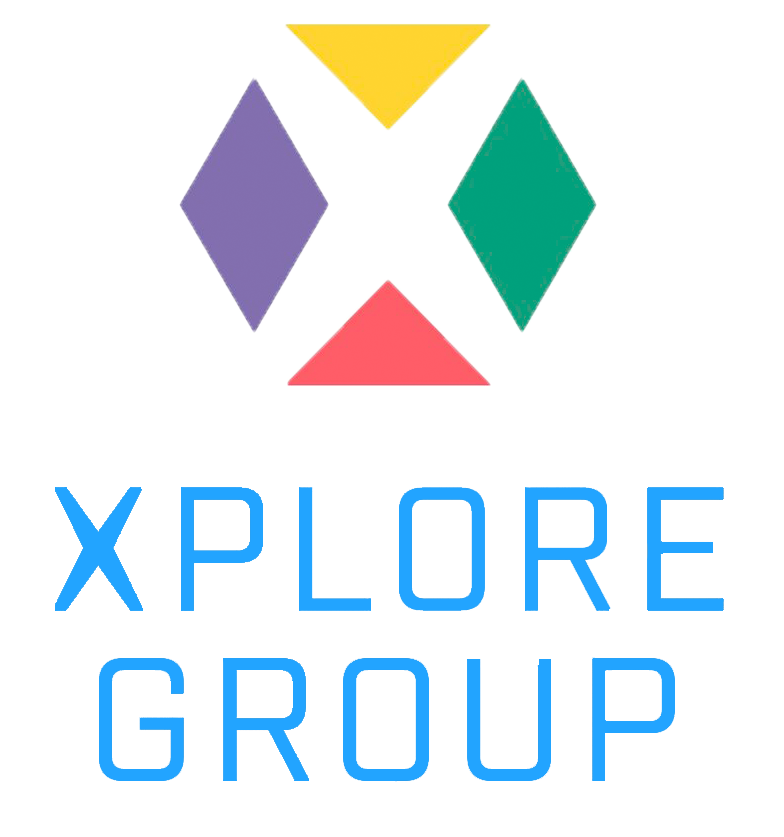
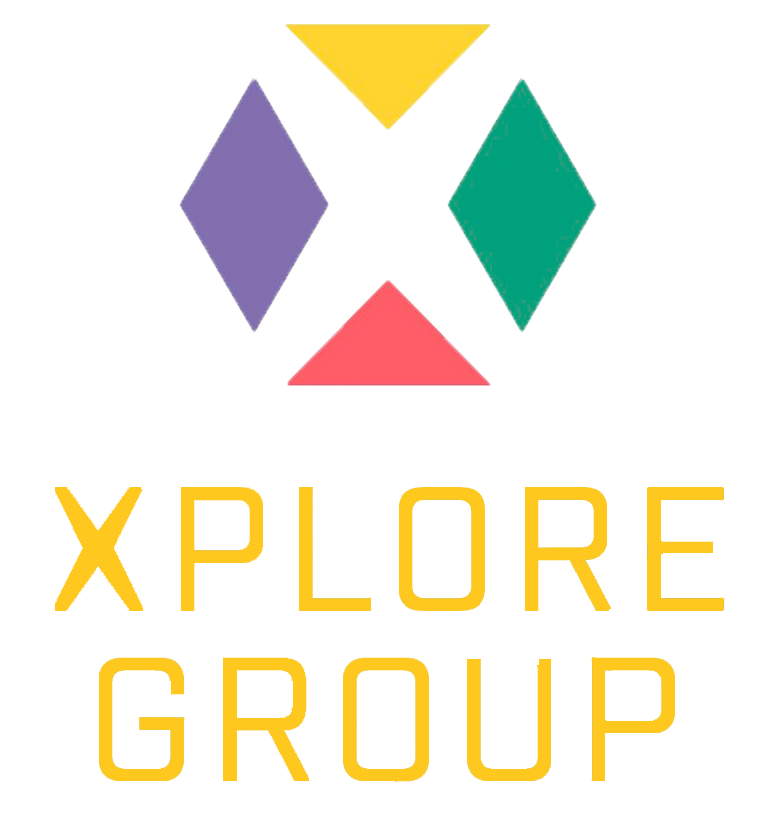
changed background and colors

diff --git a/src/seats/components/HomePage.tsx b/src/seats/components/HomePage.tsx
@@ -3,9 +3,9 @@ import ActionMenu from './ActionMenu'
 import CardSeat from './CardSeat';
 import {Seat} from '../types/Seat';
 import BuildingFloorPlan from '../../svg/components/BuildingFloorPlan';
-import {DeviceEventEmitter, View, ScrollView, Dimensions} from 'react-native';
+import {DeviceEventEmitter, View, ScrollView, ImageBackground} from 'react-native';
 import DatePicker from "../../dateTimePicker/components/DatePicker";
-import {Button, Portal, ToggleButton} from "react-native-paper";
+import {Button, Portal, ToggleButton, Text} from "react-native-paper";
 import ReserveSeatDialog from './ReserveSeatDialog';
 import useGetSeatStatus from '../hooks/useGetSeatStatus';
 import useBuilding from '../hooks/useBuilding';
@@ -46,9 +46,9 @@ export default function HomePage() {
                 <ToggleButton status={!showSeatsList ? 'unchecked' : 'checked'}
                               style={{
                                   marginRight: 2, marginLeft: 5,
-                                  backgroundColor: showSeatsList ? theme.colors.accent : '#fff'
+                                  backgroundColor: showSeatsList ? theme.colors.primary : '#fff'
                               }}
-                              color={showSeatsList ? '#fff' : theme.colors.accent}
+                              color={showSeatsList ? '#fff' : theme.colors.primary}
                               icon={'format-list-text'} onPress={onToggleSwitch}
 
                 />
@@ -94,11 +94,16 @@ export default function HomePage() {
     }, [loading])
 
     return (
+
         <View style={{
             flexShrink: 1,
-            height: Dimensions.get("window").height,
-            width: Dimensions.get("window").width
+            height: '100%',
+            width: '100%'
         }}>
+            <ImageBackground resizeMode='cover' style={{
+                flex: 1,
+                justifyContent: "center"
+            }} source={require('../../../assets/cronosLogin.png')}>
             <ActionMenu/>
             {clickedSeat !== undefined &&
                 <Portal>
@@ -114,12 +119,14 @@ export default function HomePage() {
                 display: 'flex',
                 flexDirection: 'row',
                 alignItems: 'center',
-                marginBottom: 5,
-                justifyContent: 'space-between'
+                margin: 5,
+                justifyContent: 'space-evenly',
+                backgroundColor: theme.colors.primary
             }}>
                 <DatePicker updateState={setDate} date={date}/>
+                <Text style={{color: theme.colors.accent}}>|</Text>
                 <Button onPress={() => setFilterVisible(true)}
-                        style={{width: '40%',}} icon='filter'>filter</Button>
+                        color={theme.colors.accent} icon='tune'>filter</Button>
             </View>
             {showSeatsList ?
                 <ScrollView>
@@ -138,6 +145,7 @@ export default function HomePage() {
                                        floorPoints={selectedBuilding.floorPoints}/>
                 </ReactNativeZoomableView>
             }
+            </ImageBackground>
         </View>
     )
 }

diff --git a/App.tsx b/App.tsx
@@ -1,17 +1,17 @@
 import React, {useEffect} from 'react';
 import HomePage from './src/seats/components/HomePage';
-import { Provider } from 'react-native-paper'
-import { ToastContainer } from '@jamsch/react-native-toastify';
-import { createNativeStackNavigator } from '@react-navigation/native-stack';
-import { NavigationContainer } from '@react-navigation/native';
+import {Provider} from 'react-native-paper'
+import {ToastContainer} from '@jamsch/react-native-toastify';
+import {createNativeStackNavigator} from '@react-navigation/native-stack';
+import {NavigationContainer} from '@react-navigation/native';
 import {
     nl,
     registerTranslation,
 } from 'react-native-paper-dates'
 import "intl";
 import 'intl/locale-data/jsonp/nl'
-import { Platform } from "react-native";
-import { LoginContainer } from './src/login/components/LoginContainer';
+import {Platform} from "react-native";
+import {LoginContainer} from './src/login/components/LoginContainer';
 import CheckIn from './src/seats/components/CheckIn';
 import MyReservations from './src/reservations/components/MyReservations';
 import {theme} from "./theme";
@@ -41,14 +41,14 @@ export default function App() {
     return (
         <Provider theme={theme}>
             <LoginContainer>
-                <NavigationContainer>
-                    <ToastContainer />
-                    <Stack.Navigator initialRouteName='Home'>
-                        <Stack.Screen name='Home' component={HomePage} />
-                        <Stack.Screen name='CheckIn' component={CheckIn} />
-                        <Stack.Screen name='MyReservations' component={MyReservations} />
-                    </Stack.Navigator>
-                </NavigationContainer>
+                    <NavigationContainer>
+                        <ToastContainer/>
+                        <Stack.Navigator initialRouteName='Home'>
+                            <Stack.Screen name='Home' component={HomePage}/>
+                            <Stack.Screen name='CheckIn' component={CheckIn}/>
+                            <Stack.Screen name='MyReservations' component={MyReservations}/>
+                        </Stack.Navigator>
+                    </NavigationContainer>
             </LoginContainer>
         </Provider>
     );

diff --git a/src/seats/components/CheckIn.tsx b/src/seats/components/CheckIn.tsx
@@ -1,5 +1,5 @@
 import React, {useEffect, useState} from 'react'
-import {View, StyleSheet} from 'react-native';
+import {View, StyleSheet, ImageBackground} from 'react-native';
 import {BarCodeScanner, BarCodeScannerResult} from 'expo-barcode-scanner';
 import {Button, Text} from 'react-native-paper';
 import useSeat from '../../shared/hooks/useSeat';
@@ -32,16 +32,21 @@ export default function CheckIn() {
     }
 
     return (
-        <View testID={'CheckInView'} style={{height: '100%', display: 'flex', flexDirection: 'column'}}>
-            <BarCodeScanner testID={'BarCodeScanner'}
-                            onBarCodeScanned={scanned ? undefined : handleBarCodeScanned}
-                            style={StyleSheet.absoluteFillObject}
-            />
-            {scanned &&
-                <Button mode='contained' onPress={() => setScanned(false)}>Tap to Scan Again</Button>}
-            <Text style={{textAlign: 'center', fontSize: 20, fontWeight: 'bold', marginTop: 5}}>
-                Scan the QR code on the desk you reserved to check in.
-            </Text>
-        </View>
+        <ImageBackground resizeMode='cover' style={{
+            flex: 1,
+            justifyContent: "center"
+        }} source={require('../../../assets/background.png')}>
+            <View testID={'CheckInView'} style={{height: '100%', display: 'flex', flexDirection: 'column'}}>
+                <BarCodeScanner testID={'BarCodeScanner'}
+                                onBarCodeScanned={scanned ? undefined : handleBarCodeScanned}
+                                style={StyleSheet.absoluteFillObject}
+                />
+                {scanned &&
+                    <Button mode='contained' onPress={() => setScanned(false)}>Tap to Scan Again</Button>}
+                <Text style={{textAlign: 'center', fontSize: 20, fontWeight: 'bold', marginTop: 5}}>
+                    Scan the QR code on the desk you reserved to check in.
+                </Text>
+            </View>
+        </ImageBackground>
     )
 }

diff --git a/src/reservations/components/MyReservations.tsx b/src/reservations/components/MyReservations.tsx
@@ -1,18 +1,23 @@
 import React from "react";
 import useGetMyReservations from "../hooks/useGetMyReservations";
-import { UserReservation } from "../type/UserReservation";
+import {UserReservation} from "../type/UserReservation";
 import ReservationCard from "./ReservationCard";
-import {ScrollView} from "react-native";
+import {ImageBackground, ScrollView} from "react-native";
 
 export default function MyReservations() {
-    const { userReservations, refetchSeats } = useGetMyReservations()
+    const {userReservations, refetchSeats} = useGetMyReservations()
 
     return (
-        <ScrollView>
-            {userReservations.map((userReservation: UserReservation) => (
-                <ReservationCard key={userReservation.id} userReservation={userReservation}
-                    refetchMyReservations={refetchSeats} />
-            ))}
-        </ScrollView>
+        <ImageBackground resizeMode='cover' style={{
+            flex: 1,
+            justifyContent: "center"
+        }} source={require('../../../assets/background.png')}>
+            <ScrollView>
+                {userReservations.map((userReservation: UserReservation) => (
+                    <ReservationCard key={userReservation.id} userReservation={userReservation}
+                                     refetchMyReservations={refetchSeats}/>
+                ))}
+            </ScrollView>
+        </ImageBackground>
     )
 }

diff --git a/src/login/components/OpenUrlButton.tsx b/src/login/components/OpenUrlButton.tsx
@@ -1,7 +1,7 @@
 import React, {useCallback} from "react";
 import {Image, Linking, Platform, View} from "react-native";
 import * as WebBrowser from 'expo-web-browser';
-import {Button} from "react-native-paper";
+import {Button, Text} from "react-native-paper";
 import {toast} from "@jamsch/react-native-toastify";
 import {theme} from "../../../theme";
 
@@ -30,9 +30,11 @@ export const OpenURLButton = ({url}: OpenUrlButtonProps) => {
                 <Image style={{width: 200, height: 200}} resizeMode='contain' source={require('../../../assets/xploreGroup.png')}/>
             </View>
             <View style={{ display: 'flex', flexDirection: 'row', justifyContent: 'center'}}>
-                <Button color={theme.colors.accent} style={{padding: 4}} icon='lock-open-outline' mode='contained'
-                        onPress={() => handlePress()}>Connect
-                    with Cronos</Button>
+                <Button color={theme.colors.primary} style={{padding: 4}} mode='contained'
+                        onPress={() => handlePress()} icon='lock-open-outline' labelStyle={{color: theme.colors.accent}}>
+                    <Text style={{color: theme.colors.accent}}>Connect
+                        with Cronos</Text>
+                </Button>
             </View>
         </View>
     );

diff --git a/src/svg/components/BuildingFloorPlan.tsx b/src/svg/components/BuildingFloorPlan.tsx
@@ -4,6 +4,7 @@ import { G, Polyline, Svg } from 'react-native-svg';
 import { Point } from '../../seats/types/Point';
 import { Seat as SeatObject } from '../../seats/types/Seat';
 import Seat from './Seat';
+import {theme} from "../../../theme";
 
 interface BuildingFloorPlanProps {
     seats: SeatObject[];
@@ -45,13 +46,13 @@ export default function BuildingFloorPlan({ seats, floorPoints, updateDialog }: 
                         <Polyline
                             //width,height
                             points={stringPoints}
-                            fill="none"
+                            fill={theme.colors.accent}
                             stroke="black"
                             strokeWidth="15"
                         />
                     </G>
                     {seats.map((seat: SeatObject) => (
-                        <Seat key={seat.id} seat={seat} updateDialog={updateDialog} ></Seat>
+                        <Seat key={seat.id} seat={seat} updateDialog={updateDialog} />
                     ))}
                 </Svg>
             </View>

diff --git a/src/dateTimePicker/components/DatePicker.tsx b/src/dateTimePicker/components/DatePicker.tsx
@@ -2,6 +2,7 @@ import {Button} from "react-native-paper";
 import React from "react";
 import {View} from "react-native";
 import {DatePickerModal} from "react-native-paper-dates";
+import {theme} from "../../../theme";
 
 interface Props {
     updateState: (date: Date) => void
@@ -24,8 +25,8 @@ export default function DatePicker({updateState, date}: Props) {
     );
 
     return (
-        <View style={{width: '60%'}}>
-            <Button onPress={() => setOpen(true)} uppercase={false} mode={'contained'}>
+        <View>
+            <Button labelStyle={{color: theme.colors.accent}} color={theme.colors.accent} icon={'calendar'} onPress={() => setOpen(true)} uppercase={false}>
                 {date.toLocaleDateString()}
             </Button>
             <DatePickerModal

diff --git a/src/seats/components/ActionMenu.tsx b/src/seats/components/ActionMenu.tsx
@@ -2,6 +2,7 @@ import {NavigationProp, useNavigation} from '@react-navigation/native';
 import React, {useState} from 'react'
 import {FAB, Portal} from 'react-native-paper';
 import {RootStackParamList} from '../../../App';
+import {theme} from "../../../theme";
 
 type homeScreenProp = NavigationProp<RootStackParamList, 'Home'>;
 
@@ -12,8 +13,10 @@ export default function ActionMenu() {
     return (
         <Portal>
             <FAB.Group
+                fabStyle={{backgroundColor: theme.colors.primary}}
                 open={open}
                 visible={true}
+                color={theme.colors.accent}
                 icon={!open ? 'desk' : 'window-close'}
                 actions={[
                     {

diff --git a/theme.ts b/theme.ts
@@ -6,6 +6,11 @@ export const theme = {
     colors: {
         ...DefaultTheme.colors,
         primary: '#525464',
-        accent: '#04689a',
+        accent: '#d1e4dd',
+        error: '#e04457',
+        warning: '#ffc81f',
+        white: '#ffffff',
+        black: '#222633',
+        third: '#645ca2'
     },
 };
